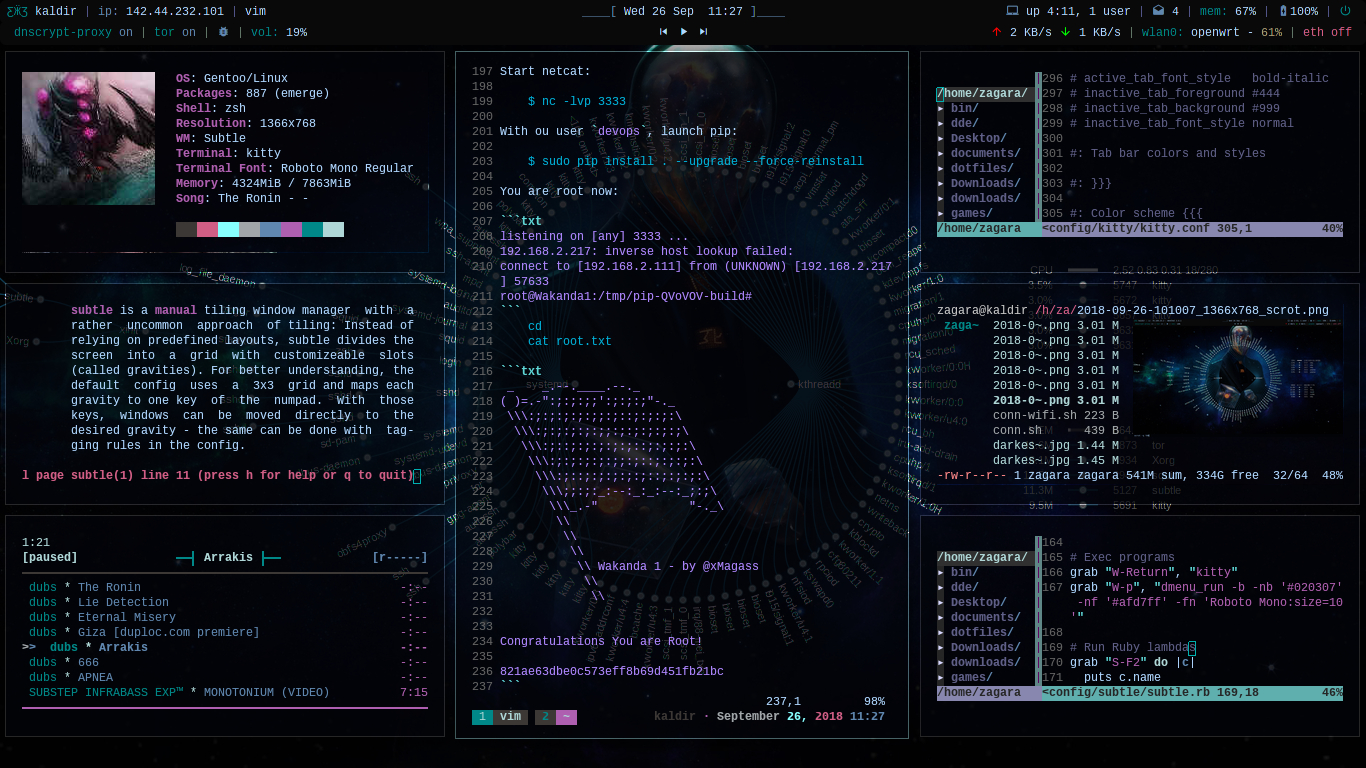
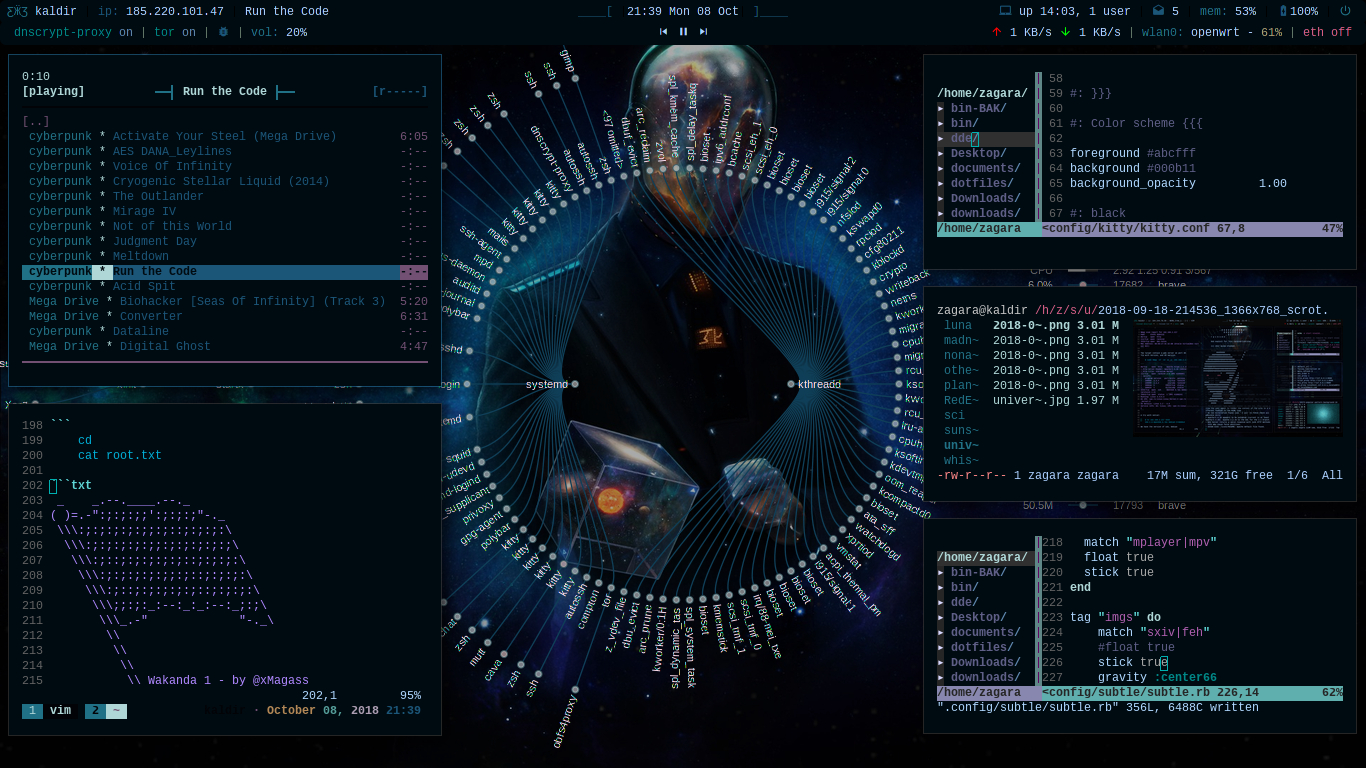
upd theme-universe: colors, subtle, kitty, screen

diff --git a/theme-universe/.config/subtle/subtle.rb b/theme-universe/.config/subtle/subtle.rb
@@ -44,9 +44,9 @@ end
 
 # Style for active/inactive windows
 style :clients do
-  active    "#5f8787", 1
+  active    "#1d5b80", 1
   inactive  "#333333", 1
-  margin 5, 5, 5, 5
+  margin 8, 8, 8, 8
   width     50
 end
 
@@ -223,6 +223,7 @@ end
 tag "imgs" do
     match "sxiv|feh"
     #float true
+    stick true
     gravity :center66
 end
 

diff --git a/README.md b/README.md
@@ -71,6 +71,8 @@ For now, i use vim with:
 + [nerdtree](https://github.com/scrooloose/nerdtree)
 + [vim-gpg](https://github.com/jamessan/vim-gnupg) to encrypt my password.
 
+Colorscheme for vim are not include into this repo, you have to download and install them manually, the link is on the description of each screens bellow.  
+
 ## zsh
 
 I use the plugin [oh-my-zsh](https://github.com/robbyrussell/oh-my-zsh) with the theme [spaceship-prompt](https://github.com/denysdovhan/spaceship-prompt).
@@ -81,11 +83,11 @@ I use the plugin [oh-my-zsh](https://github.com/robbyrussell/oh-my-zsh) with the
 
 ![Last screenshot](https://raw.githubusercontent.com/szorfein/dotfiles/master/screenshots/fantasy.jpg "fantasy")
 
-`theme-universe`, [wm]:*subtle* or *i3* [term]: *kitty*.
+`theme-universe`, [wm]:*subtle* or *i3* [term]: *kitty*. [vim-color] [darkest-space](https://github.com/szorfein/darkest-space)
 
 ![Universe screenshot](https://raw.githubusercontent.com/szorfein/dotfiles/master/screenshots/universe.jpg "universe")
 
-`theme-darkest-space`, [wm]:*subtle* or *i3*. [term]: *kitty* or *termite*. [vim-colorscheme] [darkest-space](https://github.com/szorfein/darkest-space)
+`theme-darkest-space`, [wm]:*subtle* or *i3*. [term]: *kitty* or *termite*. [vim-color] [darkest-space](https://github.com/szorfein/darkest-space)
 
 ![Darkest-space screenshot](https://raw.githubusercontent.com/szorfein/dotfiles/master/screenshots/darkest-space.jpg "darkest-space")
 
